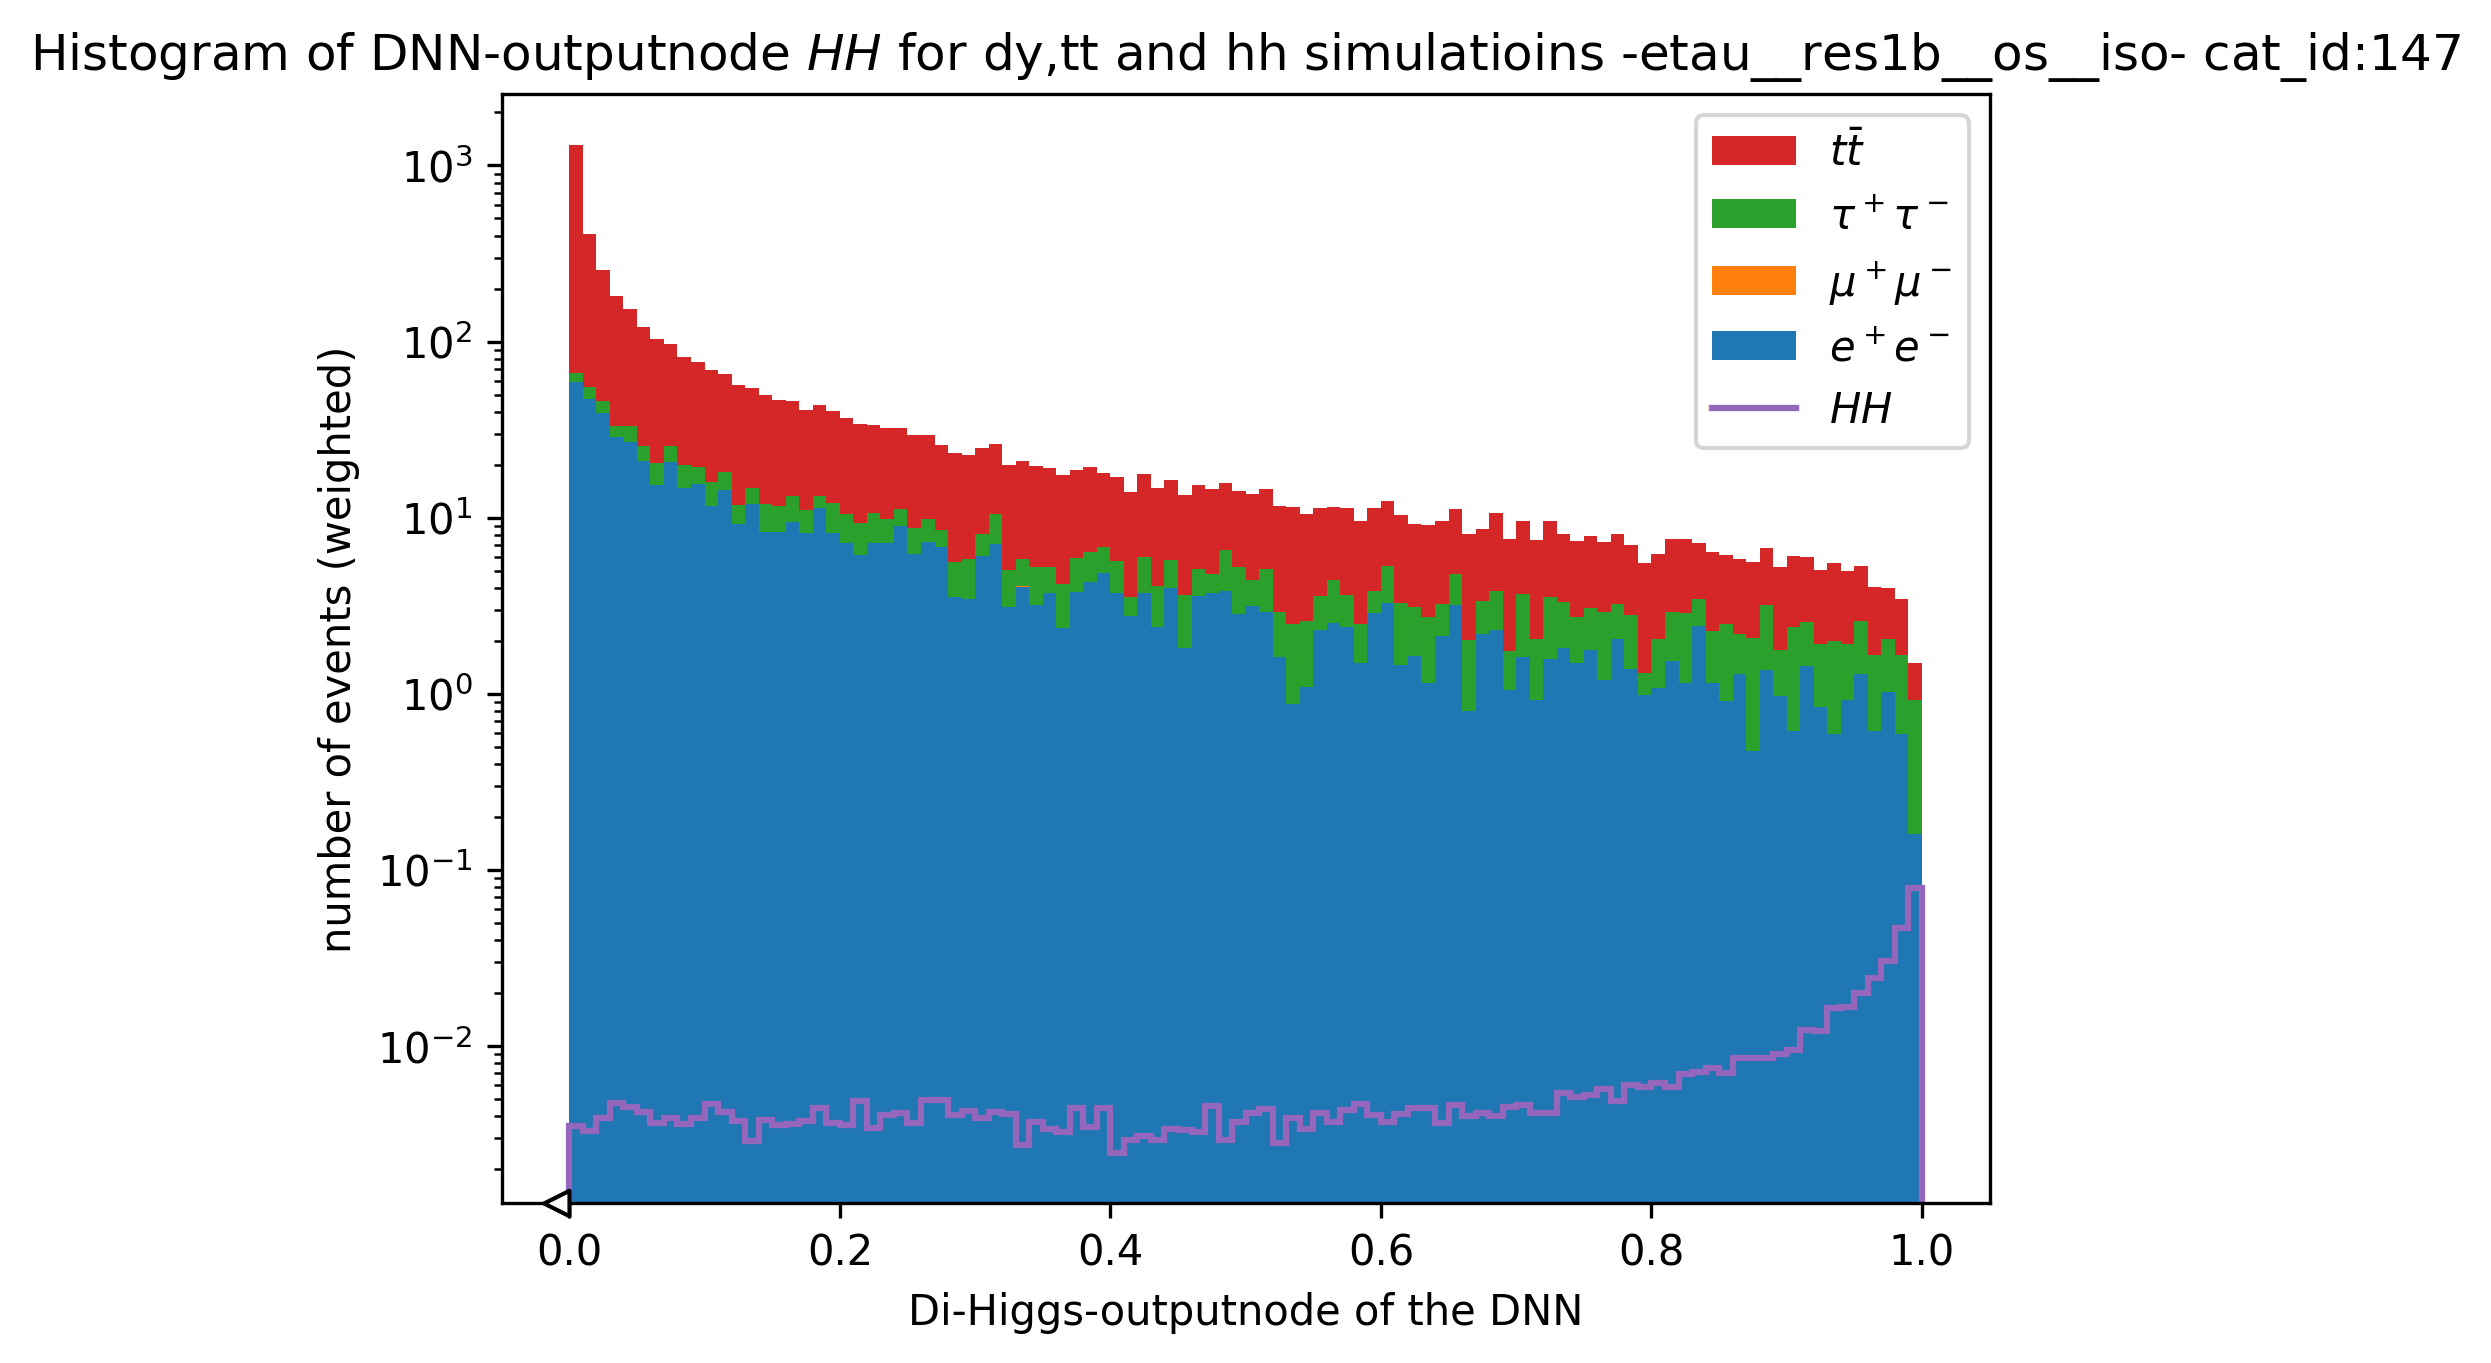
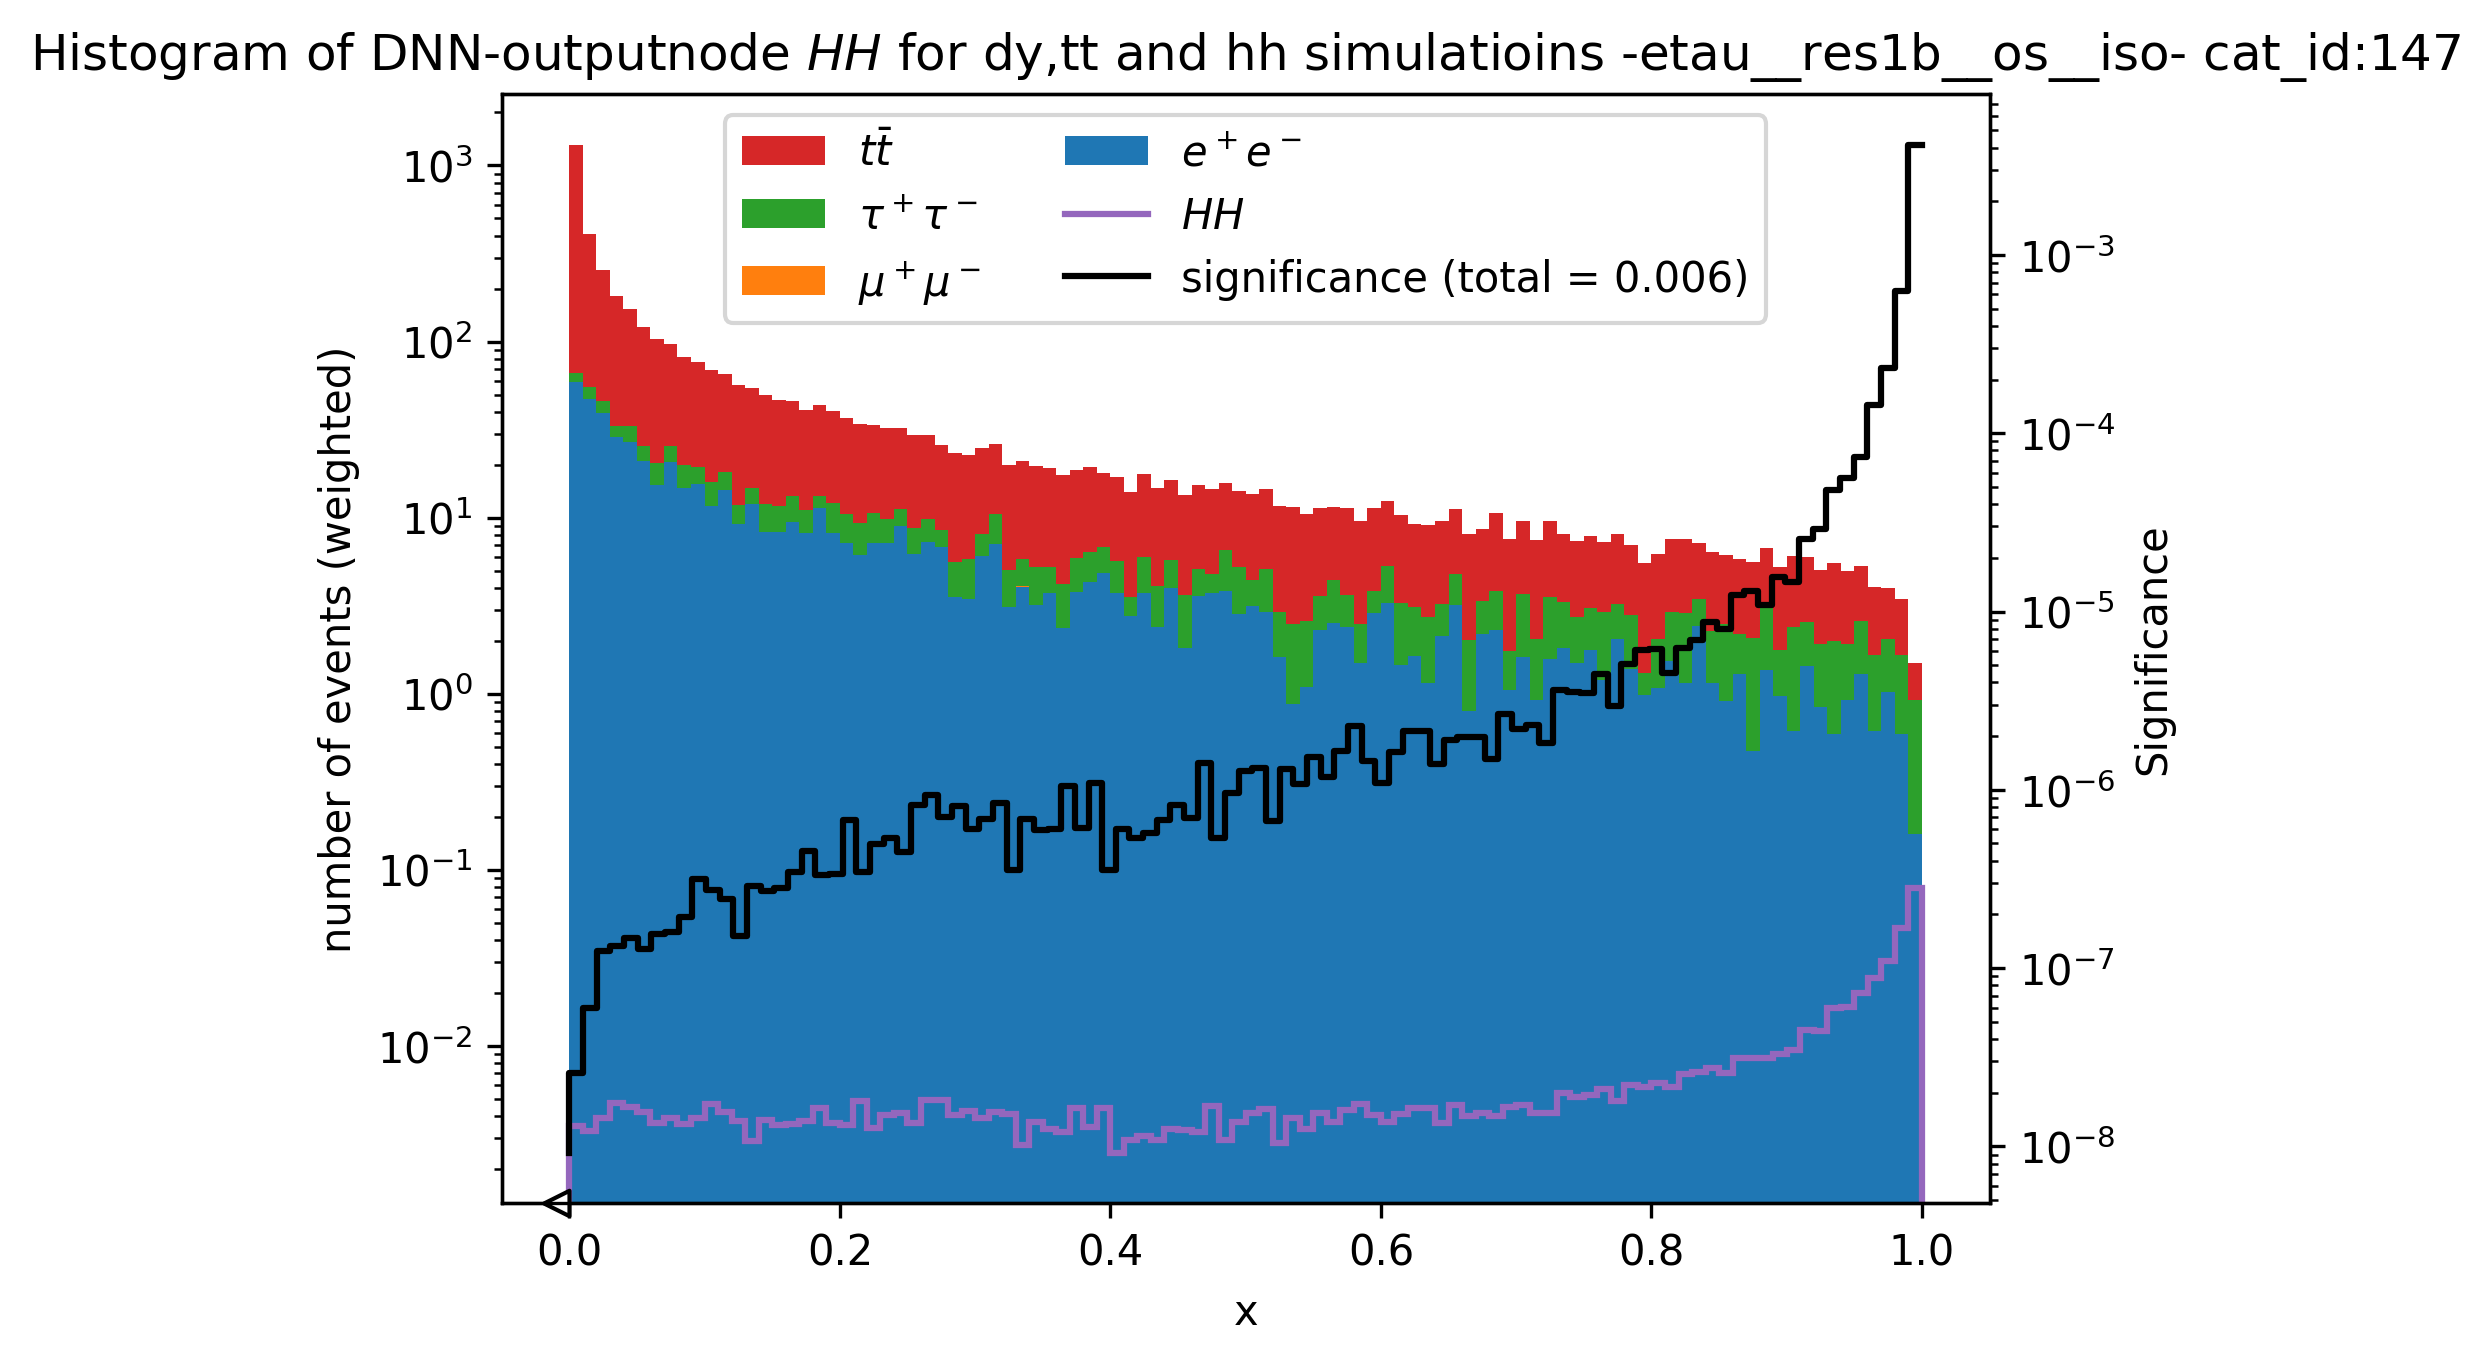
hist_2_subdevided hat jetzt auch die Signifikanz

diff --git a/hists_2_subdevided.py b/hists_2_subdevided.py
@@ -57,33 +57,57 @@ tau_zerfallskanäle=np.array([el_number,mu_number,hadron_number])
 
 
 #6.1 stacked hist weiter in subprozesse unterteilen (tau tau weiter unterteilen wie bei 5. im bar chart)
+#Masken definieren:
+el_pdgid_mask  = events_dy.gen_ll_pdgid == 11
+mu_pdgid_mask  = events_dy.gen_ll_pdgid == 13
+tau_pdgid_mask = events_dy.gen_ll_pdgid == 15
+
 for i in [1,2,3]: #i steht für den channel
-    dy.fill(x=events_dy.run3_dnn_moe_hh[(events_dy.channel_id == i) & (events_dy.gen_ll_pdgid == 11)],Zerfallskanal=r"$e^+e^-$", weight=events_dy.event_weight[(events_dy.channel_id == i) & (events_dy.gen_ll_pdgid == 11)])    #maske für channel (und bei dy Zerfallskanal) in eckigen Klammern
-    dy.fill(x=events_dy.run3_dnn_moe_hh[(events_dy.channel_id == i) & (events_dy.gen_ll_pdgid == 13)],Zerfallskanal=r"$\mu^+\mu^-$", weight=events_dy.event_weight[(events_dy.channel_id == i) & (events_dy.gen_ll_pdgid == 13)])
+    dy.fill(x=events_dy.run3_dnn_moe_hh[(events_dy.channel_id == i) & (el_pdgid_mask)],Zerfallskanal=r"$e^+e^-$", weight=events_dy.event_weight[(events_dy.channel_id == i) & (el_pdgid_mask)])    #maske für channel (und bei dy Zerfallskanal) in eckigen Klammern
+    dy.fill(x=events_dy.run3_dnn_moe_hh[(events_dy.channel_id == i) & (mu_pdgid_mask)],Zerfallskanal=r"$\mu^+\mu^-$", weight=events_dy.event_weight[(events_dy.channel_id == i) & (mu_pdgid_mask)])
 
 
-    dy.fill(x=events_dy.run3_dnn_moe_hh[(events_dy.gen_ll_pdgid == 15)][(events_dy.channel_id[events_dy.gen_ll_pdgid == 15] == i) & (tau_zerfallskanäle[0]==2) & (tau_zerfallskanäle[1]==0) & (tau_zerfallskanäle[2]==0)],Zerfallskanal=r"$\tau_e\tau_e$", weight=events_dy.event_weight[(events_dy.gen_ll_pdgid == 15)][(events_dy.channel_id[events_dy.gen_ll_pdgid == 15] == i) & (tau_zerfallskanäle[0]==2) & (tau_zerfallskanäle[1]==0) & (tau_zerfallskanäle[2]==0)])
-    dy.fill(x=events_dy.run3_dnn_moe_hh[(events_dy.gen_ll_pdgid == 15)][(events_dy.channel_id[events_dy.gen_ll_pdgid == 15] == i) & (tau_zerfallskanäle[0]==0) & (tau_zerfallskanäle[1]==2) & (tau_zerfallskanäle[2]==0)],Zerfallskanal=r"$\tau_\mu\tau_\mu$", weight=events_dy.event_weight[(events_dy.gen_ll_pdgid == 15)][(events_dy.channel_id[events_dy.gen_ll_pdgid == 15] == i) & (tau_zerfallskanäle[0]==0) & (tau_zerfallskanäle[1]==2) & (tau_zerfallskanäle[2]==0)])
-    dy.fill(x=events_dy.run3_dnn_moe_hh[(events_dy.gen_ll_pdgid == 15)][(events_dy.channel_id[events_dy.gen_ll_pdgid == 15] == i) & (tau_zerfallskanäle[0]==0) & (tau_zerfallskanäle[1]==0) & (tau_zerfallskanäle[2]==2)],Zerfallskanal=r"$\tau_h\tau_h$", weight=events_dy.event_weight[(events_dy.gen_ll_pdgid == 15)][(events_dy.channel_id[events_dy.gen_ll_pdgid == 15] == i) & (tau_zerfallskanäle[0]==0) & (tau_zerfallskanäle[1]==0) & (tau_zerfallskanäle[2]==2)])
-    dy.fill(x=events_dy.run3_dnn_moe_hh[(events_dy.gen_ll_pdgid == 15)][(events_dy.channel_id[events_dy.gen_ll_pdgid == 15] == i) & (tau_zerfallskanäle[0]==1) & (tau_zerfallskanäle[1]==1) & (tau_zerfallskanäle[2]==0)],Zerfallskanal=r"$\tau_e\tau_\mu$", weight=events_dy.event_weight[(events_dy.gen_ll_pdgid == 15)][(events_dy.channel_id[events_dy.gen_ll_pdgid == 15] == i) & (tau_zerfallskanäle[0]==1) & (tau_zerfallskanäle[1]==1) & (tau_zerfallskanäle[2]==0)])
-    dy.fill(x=events_dy.run3_dnn_moe_hh[(events_dy.gen_ll_pdgid == 15)][(events_dy.channel_id[events_dy.gen_ll_pdgid == 15] == i) & (tau_zerfallskanäle[0]==1) & (tau_zerfallskanäle[1]==0) & (tau_zerfallskanäle[2]==1)],Zerfallskanal=r"$\tau_e\tau_h$", weight=events_dy.event_weight[(events_dy.gen_ll_pdgid == 15)][(events_dy.channel_id[events_dy.gen_ll_pdgid == 15] == i) & (tau_zerfallskanäle[0]==1) & (tau_zerfallskanäle[1]==0) & (tau_zerfallskanäle[2]==1)])
-    dy.fill(x=events_dy.run3_dnn_moe_hh[(events_dy.gen_ll_pdgid == 15)][(events_dy.channel_id[events_dy.gen_ll_pdgid == 15] == i) & (tau_zerfallskanäle[0]==0) & (tau_zerfallskanäle[1]==1) & (tau_zerfallskanäle[2]==1)],Zerfallskanal=r"$\tau_\mu\tau_h$", weight=events_dy.event_weight[(events_dy.gen_ll_pdgid == 15)][(events_dy.channel_id[events_dy.gen_ll_pdgid == 15] == i) & (tau_zerfallskanäle[0]==0) & (tau_zerfallskanäle[1]==1) & (tau_zerfallskanäle[2]==1)])
+    dy.fill(x=events_dy.run3_dnn_moe_hh[(tau_pdgid_mask)][(events_dy.channel_id[tau_pdgid_mask] == i) & (tau_zerfallskanäle[0]==2) & (tau_zerfallskanäle[1]==0) & (tau_zerfallskanäle[2]==0)],Zerfallskanal=r"$\tau_e\tau_e$", weight=events_dy.event_weight[(tau_pdgid_mask)][(events_dy.channel_id[tau_pdgid_mask] == i) & (tau_zerfallskanäle[0]==2) & (tau_zerfallskanäle[1]==0) & (tau_zerfallskanäle[2]==0)])
+    dy.fill(x=events_dy.run3_dnn_moe_hh[(tau_pdgid_mask)][(events_dy.channel_id[tau_pdgid_mask] == i) & (tau_zerfallskanäle[0]==0) & (tau_zerfallskanäle[1]==2) & (tau_zerfallskanäle[2]==0)],Zerfallskanal=r"$\tau_\mu\tau_\mu$", weight=events_dy.event_weight[(tau_pdgid_mask)][(events_dy.channel_id[tau_pdgid_mask] == i) & (tau_zerfallskanäle[0]==0) & (tau_zerfallskanäle[1]==2) & (tau_zerfallskanäle[2]==0)])
+    dy.fill(x=events_dy.run3_dnn_moe_hh[(tau_pdgid_mask)][(events_dy.channel_id[tau_pdgid_mask] == i) & (tau_zerfallskanäle[0]==0) & (tau_zerfallskanäle[1]==0) & (tau_zerfallskanäle[2]==2)],Zerfallskanal=r"$\tau_h\tau_h$", weight=events_dy.event_weight[(tau_pdgid_mask)][(events_dy.channel_id[tau_pdgid_mask] == i) & (tau_zerfallskanäle[0]==0) & (tau_zerfallskanäle[1]==0) & (tau_zerfallskanäle[2]==2)])
+    dy.fill(x=events_dy.run3_dnn_moe_hh[(tau_pdgid_mask)][(events_dy.channel_id[tau_pdgid_mask] == i) & (tau_zerfallskanäle[0]==1) & (tau_zerfallskanäle[1]==1) & (tau_zerfallskanäle[2]==0)],Zerfallskanal=r"$\tau_e\tau_\mu$", weight=events_dy.event_weight[(tau_pdgid_mask)][(events_dy.channel_id[tau_pdgid_mask] == i) & (tau_zerfallskanäle[0]==1) & (tau_zerfallskanäle[1]==1) & (tau_zerfallskanäle[2]==0)])
+    dy.fill(x=events_dy.run3_dnn_moe_hh[(tau_pdgid_mask)][(events_dy.channel_id[tau_pdgid_mask] == i) & (tau_zerfallskanäle[0]==1) & (tau_zerfallskanäle[1]==0) & (tau_zerfallskanäle[2]==1)],Zerfallskanal=r"$\tau_e\tau_h$", weight=events_dy.event_weight[(tau_pdgid_mask)][(events_dy.channel_id[tau_pdgid_mask] == i) & (tau_zerfallskanäle[0]==1) & (tau_zerfallskanäle[1]==0) & (tau_zerfallskanäle[2]==1)])
+    dy.fill(x=events_dy.run3_dnn_moe_hh[(tau_pdgid_mask)][(events_dy.channel_id[tau_pdgid_mask] == i) & (tau_zerfallskanäle[0]==0) & (tau_zerfallskanäle[1]==1) & (tau_zerfallskanäle[2]==1)],Zerfallskanal=r"$\tau_\mu\tau_h$", weight=events_dy.event_weight[(tau_pdgid_mask)][(events_dy.channel_id[tau_pdgid_mask] == i) & (tau_zerfallskanäle[0]==0) & (tau_zerfallskanäle[1]==1) & (tau_zerfallskanäle[2]==1)])
 
 
     dy.fill(x=events_tt.run3_dnn_moe_hh[events_tt.channel_id == i],Zerfallskanal=r"$t\bar{t}$", weight=events_tt.event_weight[events_tt.channel_id == i])
 
     hh.fill(events_hh.run3_dnn_moe_hh[events_hh.channel_id == i],weight=events_hh.event_weight[events_hh.channel_id == i])
 
-    plt.yscale('log')    #Achse logarithmisch skalieren 
+    fig, ax1 = plt.subplots()
 
     # Stack-Plot erstellen
     stack = dy.stack("Zerfallskanal") #technically zerfallskanal+tt als korrekter name
-    stack.plot(stack=True, histtype="fill") # 'stack=True' ist entscheidend!
+    stack.plot(stack=True, histtype="fill", ax=ax1) # 'stack=True' ist entscheidend!
 
-    hh.plot(label=r"$HH$")
+    hh.plot(label=r"$HH$", ax=ax1)
 
-    plt.legend()
-    plt.ylabel("number of events (weighted)")
+    ax1.set_ylabel("number of events (weighted)")
+    plt.yscale('log')    #linke Achse logarithmisch skalieren 
+
+    #zweite Achse
+    background_bins = np.sum(dy.values(),axis=0)
+    signal_bins = hh.values()
+    significance = signal_bins**2/background_bins
+    significance_total = round(np.sum(significance),3)
+    ax2 = ax1.twinx()  # Erstellt die rechte Achse
+    ax2.step(np.linspace(0, 1, 100),significance, label=f"significance (total = {significance_total})", color="black")
+    ax2.set_ylabel('Significance')
+    ax2.tick_params(axis='y', labelcolor='black')
+
+    plt.yscale('log')    #rechte Achse logarithmisch skalieren 
+
+    #legende:
+    h1, l1 = ax1.get_legend_handles_labels()
+    h2, l2 = ax2.get_legend_handles_labels()
+    # Gemeinsam plotten
+    ax1.legend(h1 + h2, l1 + l2, loc="upper center", ncol=2, frameon=True)
+
     plt.xlabel("Di-Higgs-outputnode of the DNN")
     plt.title(f"Histogram of DNN-outputnode $HH$ for dy,tt and hh simulatioins - {channelname_r[i-1]}-channel")
     plt.savefig(f"plots/hist_hhnode_stacked-tt/further_subdivision/{channelname[i-1]}-channel.png", dpi=300, bbox_inches='tight')
@@ -111,16 +135,35 @@ for i,id in enumerate([147,151,175,179,203,207],start=0): #id steht für categor
 
     hh.fill(events_hh.run3_dnn_moe_hh[ak.any(events_hh.category_ids == id,axis=1)],weight=events_hh.event_weight[ak.any(events_hh.category_ids == id,axis=1)])
 
-    plt.yscale('log')    #Achse logarithmisch skalieren 
+    fig, ax1 = plt.subplots()
 
     # Stack-Plot erstellen
     stack = dy.stack("Zerfallskanal") #technically zerfallskanal+tt als korrekter name
-    stack.plot(stack=True, histtype="fill") # 'stack=True' ist entscheidend!
+    stack.plot(stack=True, histtype="fill", ax=ax1) # 'stack=True' ist entscheidend!
 
-    hh.plot(label=r"$HH$")
+    hh.plot(label=r"$HH$", ax=ax1)
 
-    plt.legend()
-    plt.ylabel("number of events (weighted)")
+    ax1.set_ylabel("number of events (weighted)")
+    plt.yscale('log')    #linke Achse logarithmisch skalieren 
+
+    #zweite Achse
+    background_bins = np.sum(dy.values(),axis=0)
+    signal_bins = hh.values()
+    significance = signal_bins**2/background_bins
+    significance_total = round(np.sum(significance),3)
+    ax2 = ax1.twinx()  # Erstellt die rechte Achse
+    ax2.step(np.linspace(0, 1, 100),significance, label=f"significance (total = {significance_total})", color="black")
+    ax2.set_ylabel('Significance')
+    ax2.tick_params(axis='y', labelcolor='black')
+
+    plt.yscale('log')    #rechte Achse logarithmisch skalieren 
+
+    #legende:
+    h1, l1 = ax1.get_legend_handles_labels()
+    h2, l2 = ax2.get_legend_handles_labels()
+    # Gemeinsam plotten
+    ax1.legend(h1 + h2, l1 + l2, loc="upper center", ncol=2, frameon=True)
+
     plt.xlabel("Di-Higgs-outputnode of the DNN")
     plt.title(f"Histogram of DNN-outputnode $HH$ for dy,tt and hh simulatioins -{IDs[i]}- cat_id:{id}")
     plt.savefig(f"plots/hist_hhnode_stacked-tt/channel_unterteilung/{id}-cat_id.png", dpi=300, bbox_inches='tight')

diff --git a/hists_1.py b/hists_1.py
@@ -96,8 +96,6 @@ for i in [1,2,3]: #i steht für den channel
     ax1.set_ylabel("number of events (weighted)")
     plt.yscale('log')    #linke Achse logarithmisch skalieren 
 
-    from IPython import embed; embed(header="MESSAGE Line 99 | File: hists_1.py")
-
     #zweite Achse
     background_bins = np.sum(dy.values(),axis=0)
     signal_bins = hh.values()
@@ -116,9 +114,6 @@ for i in [1,2,3]: #i steht für den channel
     # Gemeinsam plotten
     ax1.legend(h1 + h2, l1 + l2, loc="upper center", ncol=2, frameon=True)
 
-
-
-    plt.legend()
     plt.xlabel("Di-Higgs-outputnode of the DNN")
     plt.title(f"Histogram of DNN-outputnode $HH$ for dy,tt and hh simulatioins - {channelname_r[i-1]}-channel")
     plt.savefig(f"plots/hist_hhnode_stacked-tt/{channelname[i-1]}-channel.png", dpi=300, bbox_inches='tight')
